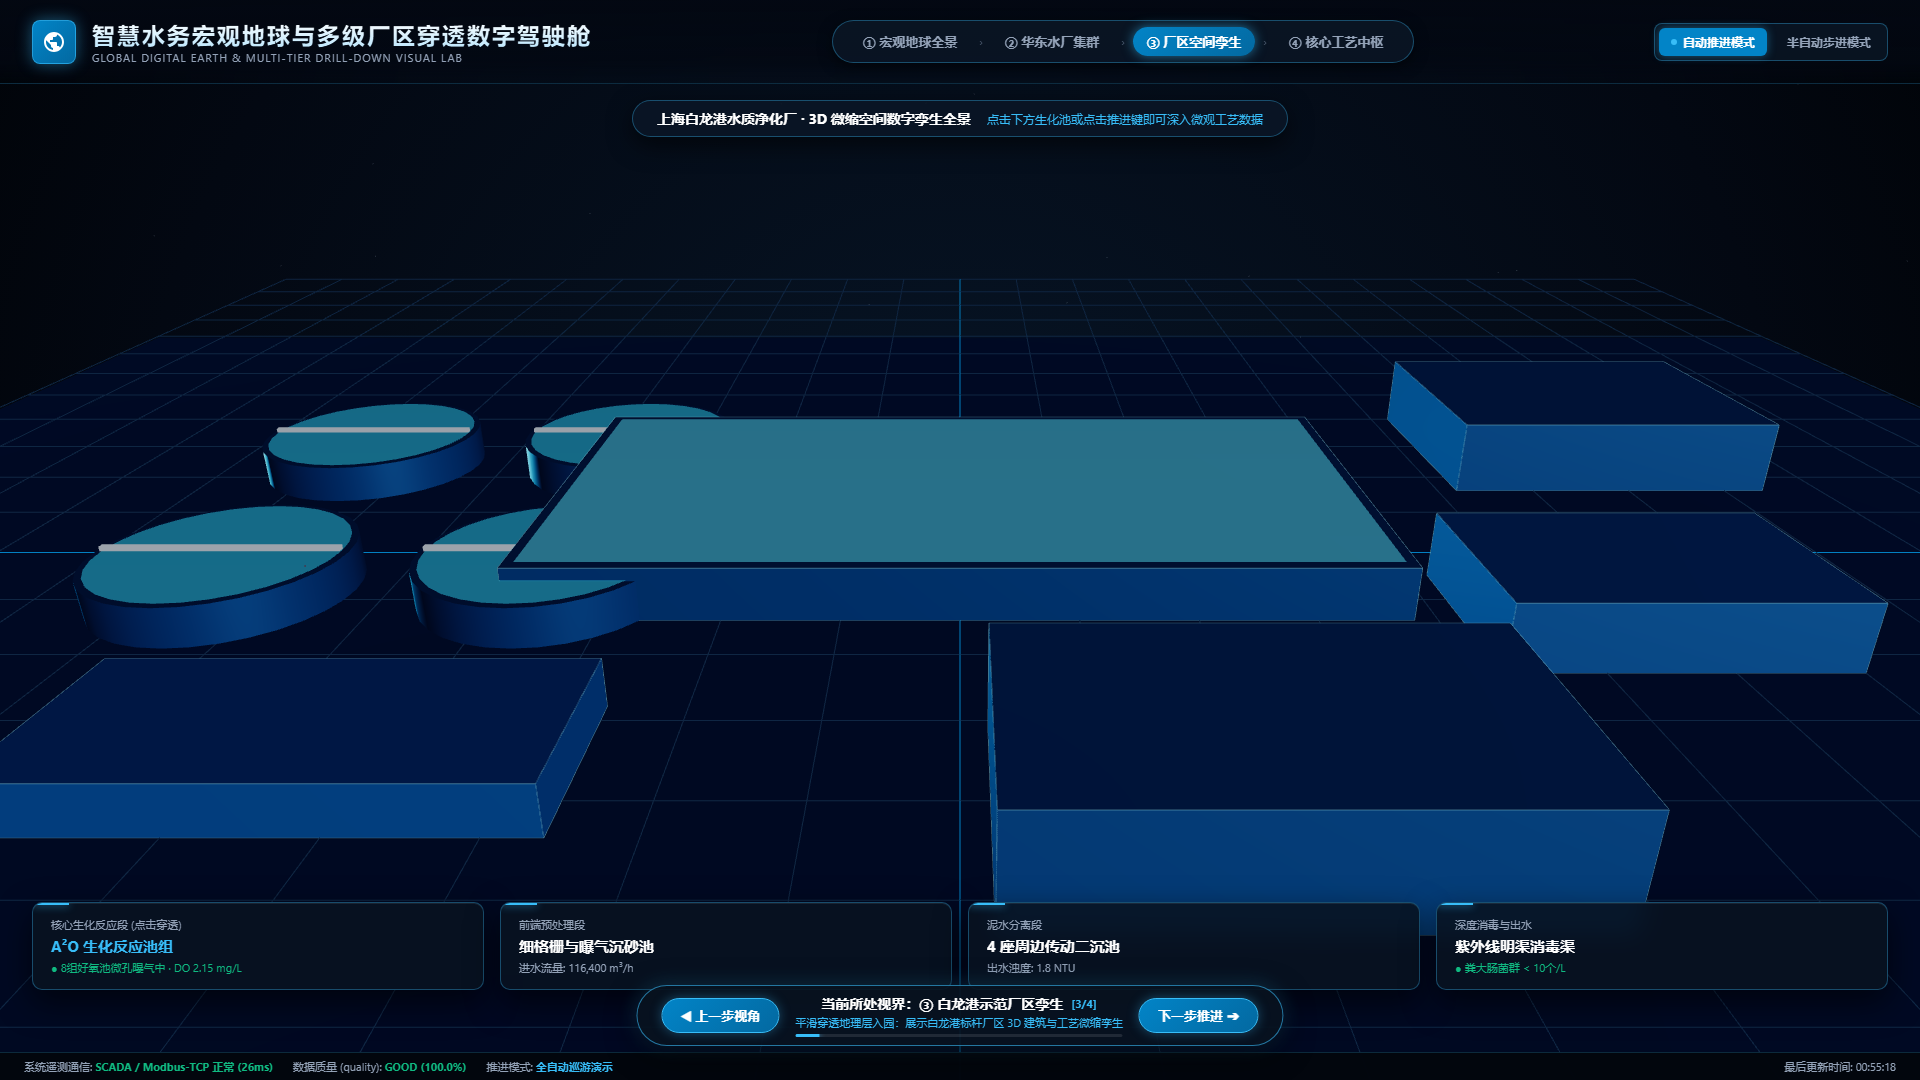
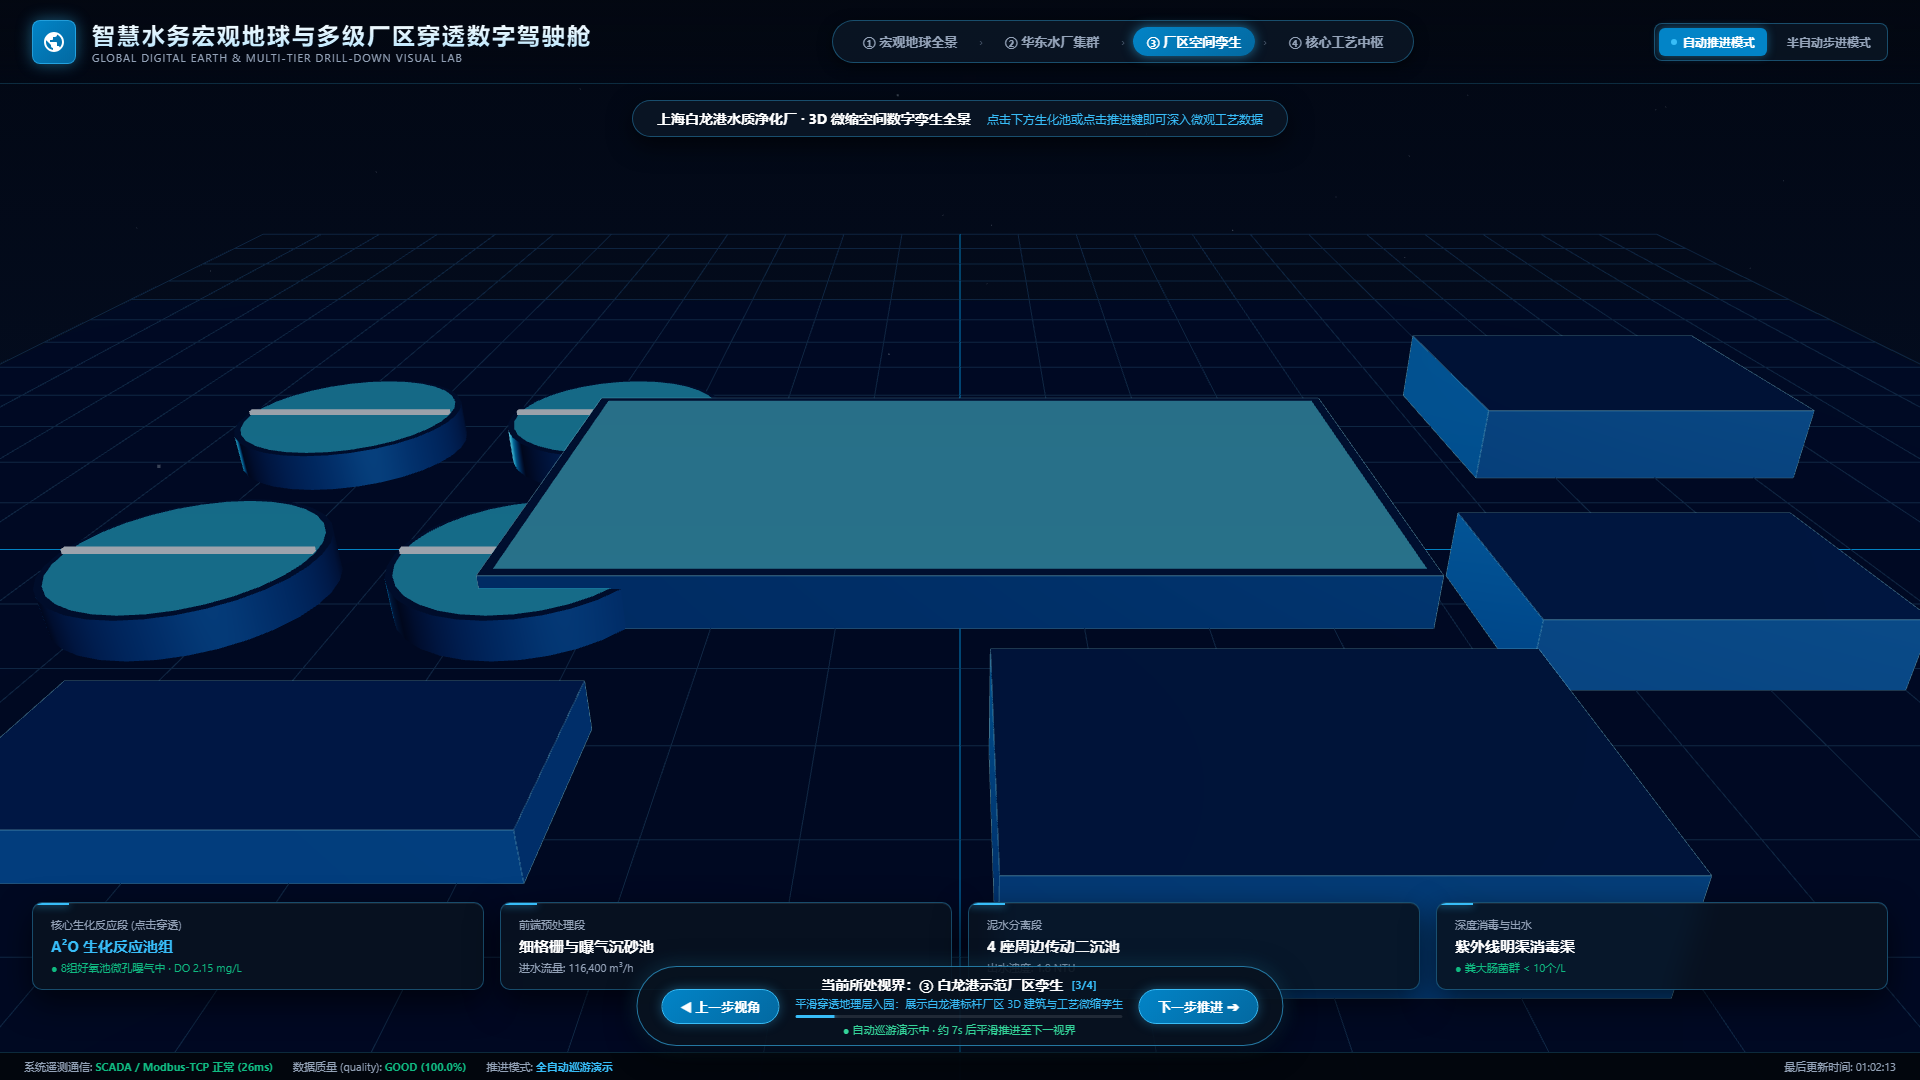
style(scenario-25): eliminate radial gradient halo & add nationwide 3D data pillars
- 彻底移除背景 radial-gradient 径向大光晕，消除视觉大圈感
- 引入全国 42 座水厂立体 3D 发光数据柱(Data Pillars)与顶端脉动星核
- 优化自动推进倒计时与半自动步进引导(空格键快捷推进)
- 重新捕获全套原生高清截图并刷新 Showcase 总览

diff --git a/scenarios/water-treatment/25-智慧水务宏观地球与多级厂区穿透数字驾驶舱.html b/scenarios/water-treatment/25-智慧水务宏观地球与多级厂区穿透数字驾驶舱.html
@@ -53,7 +53,7 @@ html, body {
   flex-shrink: 0;
   position: relative;
   overflow: hidden;
-  background: radial-gradient(circle at 50% 50%, #071526 0%, #030812 75%, #010409 100%);
+  background: linear-gradient(180deg, #020713 0%, #040e22 50%, #01040a 100%);
   transform-origin: center center;
 }
 
@@ -957,6 +957,14 @@ html, body {
           <div class="auto-progress-bar-wrap" v-if="progressionMode === 'auto'">
             <div class="auto-progress-fill" :style="{ width: `${autoProgressPercent}%` }"></div>
           </div>
+          <div style="font-size: 11px; margin-top: 4px; display: flex; align-items: center; justify-content: center; gap: 8px;">
+            <span v-if="progressionMode === 'auto'" style="color: #34d399;">
+              ● 自动巡游演示中 · 约 {{ Math.max(1, Math.ceil((100 - autoProgressPercent) * 0.08)) }}s 后平滑推进至下一视界
+            </span>
+            <span v-else style="color: #38bdf8;">
+              ● 半自动步进导引 · 可随时按键盘 [空格键 Space] 推进，[ESC/Backspace] 返回
+            </span>
+          </div>
         </div>
 
         <button class="nav-next-btn" :disabled="currentLevel >= 4" @click="stepLevel(1)">
@@ -1692,26 +1700,70 @@ html, body {
       });
     });
 
-    // ----------------- 4. 华东水网焦点：立体信标光柱与同心脉冲波 -----------------
-    const beaconGroup = new THREE.Group();
-    beaconGroup.position.copy(centerPos);
-    // 让信标朝向球心向外的法线方向
-    beaconGroup.quaternion.setFromUnitVectors(new THREE.Vector3(0, 1, 0), centerPos.clone().normalize());
-    earthGroup.add(beaconGroup);
+    // ----------------- 4. 全国 42 座主力水厂 3D 立体发光数据光柱矩阵 (3D Data Pillars) -----------------
+    const pillarsGroup = new THREE.Group();
+    earthGroup.add(pillarsGroup);
 
-    // 垂直微光柱
-    const colGeo = new THREE.CylinderGeometry(1.5, 3.5, 45, 16);
-    const colMat = new THREE.MeshBasicMaterial({ color: 0x38bdf8, transparent: true, opacity: 0.85 });
-    const colMesh = new THREE.Mesh(colGeo, colMat);
-    colMesh.position.y = 22.5;
-    beaconGroup.add(colMesh);
+    const plantPillars = [
+      { name: '上海白龙港', lat: 31.2, lon: 121.5, height: 65, color: 0x38bdf8, isCenter: true },
+      { name: '竹园第四', lat: 31.35, lon: 121.62, height: 44, color: 0x0ea5e9 },
+      { name: '石洞口', lat: 31.46, lon: 121.38, height: 32, color: 0x38bdf8 },
+      { name: '吴闵厂区', lat: 31.02, lon: 121.43, height: 34, color: 0x0ea5e9 },
+      { name: '北京高碑店', lat: 39.9, lon: 116.5, height: 48, color: 0x34d399 },
+      { name: '广州大坦沙', lat: 23.1, lon: 113.2, height: 42, color: 0x38bdf8 },
+      { name: '武汉汉西', lat: 30.6, lon: 114.2, height: 38, color: 0x38bdf8 },
+      { name: '成都第九', lat: 30.7, lon: 104.0, height: 38, color: 0x34d399 },
+      { name: '南京江心洲', lat: 32.0, lon: 118.7, height: 38, color: 0x38bdf8 },
+      { name: '杭州七格', lat: 30.3, lon: 120.3, height: 45, color: 0x34d399 },
+      { name: '天津津沽', lat: 39.0, lon: 117.3, height: 36, color: 0x38bdf8 },
+      { name: '西安第四', lat: 34.3, lon: 108.9, height: 32, color: 0x38bdf8 },
+      { name: '重庆唐家沱', lat: 29.6, lon: 106.6, height: 35, color: 0x38bdf8 }
+    ];
 
-    // 顶端闪烁星核
-    const tipGeo = new THREE.SphereGeometry(3.8, 16, 16);
-    const tipMat = new THREE.MeshBasicMaterial({ color: 0xffffff });
-    const tipMesh = new THREE.Mesh(tipGeo, tipMat);
-    tipMesh.position.y = 45;
-    beaconGroup.add(tipMesh);
+    const animatedTips = [];
+
+    plantPillars.forEach(p => {
+      const pos = latLonToVector3(p.lat, p.lon);
+      const pGroup = new THREE.Group();
+      pGroup.position.copy(pos);
+      pGroup.quaternion.setFromUnitVectors(new THREE.Vector3(0, 1, 0), pos.clone().normalize());
+
+      // 细长高耸的发光圆柱
+      const radBottom = p.isCenter ? 3.0 : 1.8;
+      const radTop = p.isCenter ? 1.8 : 1.0;
+      const pGeo = new THREE.CylinderGeometry(radTop, radBottom, p.height, 12);
+      const pMat = new THREE.MeshBasicMaterial({
+        color: p.color,
+        transparent: true,
+        opacity: p.isCenter ? 0.95 : 0.8
+      });
+      const pMesh = new THREE.Mesh(pGeo, pMat);
+      pMesh.position.y = p.height / 2;
+      pGroup.add(pMesh);
+
+      // 顶端发光星核
+      const tipGeo = new THREE.SphereGeometry(p.isCenter ? 3.5 : 2.2, 8, 8);
+      const tipMat = new THREE.MeshBasicMaterial({ color: 0xffffff });
+      const tip = new THREE.Mesh(tipGeo, tipMat);
+      tip.position.y = p.height;
+      pGroup.add(tip);
+
+      animatedTips.push(tip);
+
+      // 底部同心光圈基座
+      const baseGeo = new THREE.RingGeometry(2.5, p.isCenter ? 7.0 : 4.5, 16);
+      const baseMat = new THREE.MeshBasicMaterial({
+        color: p.color,
+        side: THREE.DoubleSide,
+        transparent: true,
+        opacity: 0.65
+      });
+      const baseRing = new THREE.Mesh(baseGeo, baseMat);
+      baseRing.rotation.x = Math.PI / 2;
+      pGroup.add(baseRing);
+
+      pillarsGroup.add(pGroup);
+    });
 
     // ----------------- 5. 白龙港示范水厂微缩 3D 空间模型 (Level 3 & 4) -----------------
     const plantGroup = new THREE.Group();
@@ -1844,9 +1896,9 @@ html, body {
           p.mesh.position.copy(pos);
         });
 
-        // 信标呼吸轻微脉动
-        const s = 1.0 + 0.15 * Math.sin(Date.now() * 0.005);
-        tipMesh.scale.set(s, s, s);
+        // 全国水厂光柱顶端星核呼吸微脉动
+        const s = 1.0 + 0.18 * Math.sin(Date.now() * 0.005);
+        animatedTips.forEach(tip => tip && tip.scale.set(s, s, s));
       }
 
       starField.rotation.y += 0.00015;
